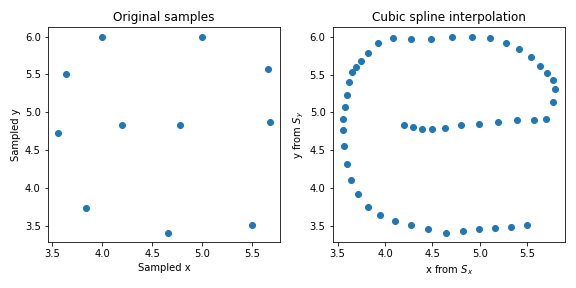
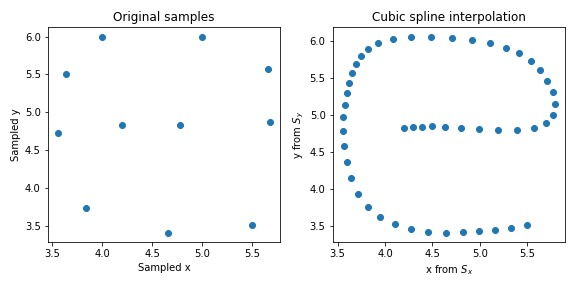
Finished both questions

diff --git a/Spline_Interpolation/Qn6_4__8.py b/Spline_Interpolation/Qn6_4__8.py
@@ -1,5 +1,6 @@
 import numpy as np
 import matplotlib.pyplot as plt 
+import pandas as pd
 
 def get_z_h(n, t, y):
     h, b = np.zeros(n), np.zeros(n)
@@ -23,9 +24,8 @@ def get_z_h(n, t, y):
 
     return z, h
 
-def get_S_points(t, y, z, h, num_points):
-    S = np.zeros(num_points)
-    x_arr = np.linspace(min(t), max(t), num_points)
+def get_S_points(t, y, z, h, x_arr):
+    S = np.zeros(len(x_arr))
     
     for idx, x in enumerate(x_arr):
         for j in range(len(t)-1):
@@ -38,45 +38,61 @@ def get_S_points(t, y, z, h, num_points):
         S[idx] = y[i] + (x - t[i]) * (C + (x-t[i]) * (B + (x-t[i])*A) )
 
     return S
-        
 
-#Capital A : https://www.geogebra.org/m/HmnV33gj
-coordinates = [(4.2,4.83), 
-                (4.78,4.83), 
-                (5.68,4.87), 
-                (5.66,5.57), 
-                (5,6), 
-                (4,6), 
-                (3.64,5.51), 
-                (3.56,4.73),
-                (3.84,3.73),
-                (4.66,3.41),
-                (5.5,3.51)
-              ]
+def get_langrange(x, x_i, x_list):
+    return np.prod((x-x_list)/(x_i - x_list + 1e-15))
 
-t = []
-x = []
-y = []
-for i, elem in enumerate(coordinates):
-    t.append(i)
-    x.append(elem[0])
-    y.append(elem[1])
+def get_polynomial_interpolation_val(x_arr, y_arr, x):
+    p = 0
+    for i in range(len(x_arr)):
+      x_list = list(x_arr)
+      x_list.remove(x_arr[i])
+      p += y_arr[i]*get_langrange(x, x_arr[i], np.array(x_list))
+    return p
 
+def get_f_arr(x_arr):
+    return 1.0/(1 + 6.0 * x_arr**2)
+
+def get_polynomial_interpolation_df(x_arr, y_arr, x_vals):
+    p = []
+    for i, x in enumerate(x_vals):
+        p.append(get_polynomial_interpolation_val(x_arr, y_arr, x))
+
+    df = pd.DataFrame()
+    f = get_f_arr(x_vals)
+    df["f(x)"] = f
+    df["p(x)"] = p
+    df["f(x)-p(x)"] = f - np.array(p)
+    return df
+    
+
+# Section 6.4 Question 8a
+x_arr = np.linspace(-1, 1, 21)
+y_arr = get_f_arr(x_arr)
+
+df = get_polynomial_interpolation_df(x_arr, y_arr, np.linspace(-1, 1, 41))
+df.to_csv("/csv/Qn6.4_8a.csv")
+
+# Section 6.4 Question 8b
+x_arr = np.linspace(1, 21, 21)
+x_arr = np.cos((x_arr - 1.0)*np.pi/20.0)
+y_arr = get_f_arr(x_arr)
+
+df = get_polynomial_interpolation_df(x_arr, y_arr, np.linspace(-1, 1, 41))
+df.to_csv("/csv/Qn6.4_8b.csv")
+
+
+# Section 6.4 Question 8c : With 21 equally spaced knots, repeat the experiment using a cubic interpolating spline. 
+t = np.linspace(-1, 1, 21)
 n = len(t)
-z_x, h_x = get_z_h(n, t, x)
-z_y, h_y = get_z_h(n, t, x)
+y_arr = get_f_arr(t)
 
-S_x = get_S_points(t, x, z_x, h_x, num_points=50)
-S_y = get_S_points(t, y, z_y, h_y, num_points=50)
+z_y, h_y = get_z_h(n, t, y_arr)
 
-fig, axes = plt.subplots(nrows=1, ncols=2, figsize=(8, 4))
-axes[0].scatter(x, y)
-axes[0].set_title("Original samples")
-axes[0].set_xlabel("Sampled x")
-axes[0].set_ylabel("Sampled y")
-axes[1].scatter(S_x, S_y)
-axes[1].set_title("Cubic spline interpolation")
-axes[1].set_xlabel(r"x from $S_x$")
-axes[1].set_ylabel(r"y from $S_y$")
-fig.tight_layout()
-plt.show()
+x_vals = np.linspace(-1, 1, 41)
+S_y = get_S_points(t, y_arr, z_y, h_y, x_vals)
+df = pd.DataFrame()
+df["f(x)"] = get_f_arr(x_vals)
+df["Sy(x)"] = S_y
+df["f(x)-Sy(x)"] = get_f_arr(x_vals) - S_y
+df.to_csv("/csv/Qn6.4_8c.csv")

diff --git a/Spline_Interpolation/Qn6_4__7.py b/Spline_Interpolation/Qn6_4__7.py
@@ -64,7 +64,7 @@ for i, elem in enumerate(coordinates):
 
 n = len(t)
 z_x, h_x = get_z_h(n, t, x)
-z_y, h_y = get_z_h(n, t, x)
+z_y, h_y = get_z_h(n, t, y)
 
 S_x = get_S_points(t, x, z_x, h_x, num_points=50)
 S_y = get_S_points(t, y, z_y, h_y, num_points=50)
@@ -79,4 +79,4 @@ axes[1].set_title("Cubic spline interpolation")
 axes[1].set_xlabel(r"x from $S_x$")
 axes[1].set_ylabel(r"y from $S_y$")
 fig.tight_layout()
-plt.show()
+plt.savefig("images/output_Qn6.4_7.png")
